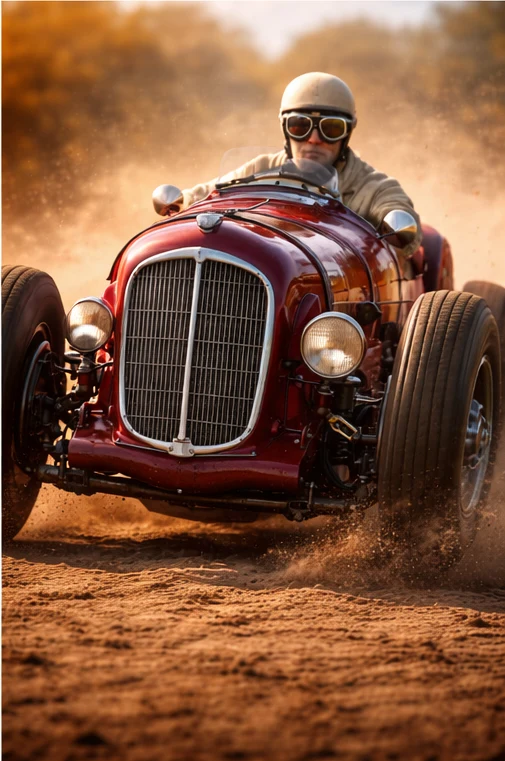
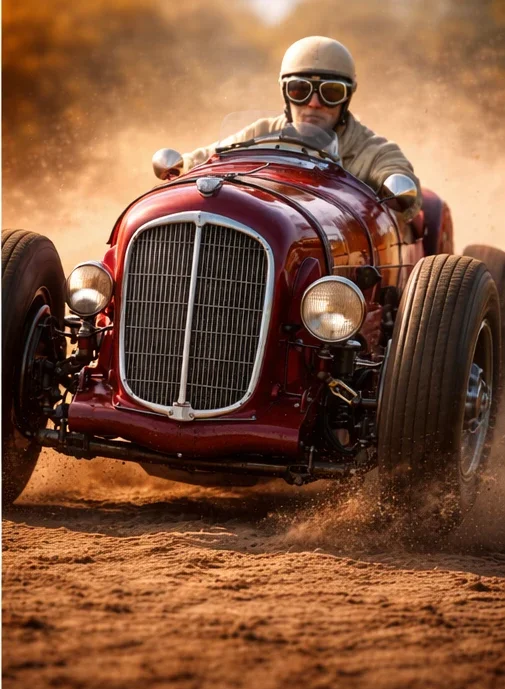
fixy obrazku

diff --git a/lib/themes/horse-day.ts b/lib/themes/horse-day.ts
@@ -133,6 +133,30 @@ export const horseDayTheme: Theme = {
       "image": "https://zyiaettnrfjzwcrumgty.supabase.co/storage/v1/object/public/racers/horse_night_buran.webp",
       "racerType": "horse",
       "slotIndex": 4
+    },
+    {
+      "id": "zeleznik",
+      "name": "Železník",
+      "speed": 10,
+      "price": 99999,
+      "emoji": "🐴",
+      "maxStamina": 10,
+      "isLegendary": true,
+      "flavorText": "Železník — legendární kůň, který nezná strach, únavu ani druhé místo. Jeho jediný cíl je jasný: vyhrát.",
+      "image": "https://zyiaettnrfjzwcrumgty.supabase.co/storage/v1/object/public/racers/zeleznik.webp",
+      "racerType": "horse",
+      "slotIndex": 5
+    },
+    {
+      "id": "horse_classic_pablo",
+      "name": "Pablo",
+      "speed": 7,
+      "price": 4500,
+      "emoji": "🐴",
+      "maxStamina": 78,
+      "image": "https://zyiaettnrfjzwcrumgty.supabase.co/storage/v1/object/public/racers/horse_classic_pablo.webp",
+      "racerType": "horse",
+      "slotIndex": 6
     }
   ],
 

diff --git a/lib/racers/storage.ts b/lib/racers/storage.ts
@@ -27,7 +27,7 @@ export type ImageUploadResult =
 // ─── WebP konverze ────────────────────────────────────────────────────────────
 
 /**
- * toWebp — převede vstupní buffer do WebP 512×512 contain.
+ * toWebp — převede vstupní buffer do WebP 512×512 cover (center crop, bez paddingu).
  *
  * Dynamic import sharp — modul zůstane server-only; tree-shaker nepromítne do bundlu.
  * Pokud sharp není dostupný (edge runtime), výjimka se propaguje do volajícího.
@@ -37,8 +37,7 @@ async function toWebp(input: Buffer): Promise<Buffer> {
   const sharp = (await import("sharp")).default;
   return sharp(input)
     .resize(512, 512, {
-      fit:        "contain",
-      background: { r: 0, g: 0, b: 0, alpha: 0 },
+      fit:        "cover",
     })
     .webp({ quality: 85 })
     .toBuffer();

diff --git a/app/components/editor/RacerEditorPanel.tsx b/app/components/editor/RacerEditorPanel.tsx
@@ -123,7 +123,9 @@ export default function RacerEditorPanel({ racer, onChange, readOnly = false }: 
       return;
     }
 
-    setImageUrl(result.imageUrl);
+    // Cache-bust preview URL — Supabase přepíše stejný soubor, browser by jinak zobrazil starý
+    const freshUrl = `${result.imageUrl}?v=${Date.now()}`;
+    setImageUrl(freshUrl);
     commit({ imageUrl: result.imageUrl });
   }
 
